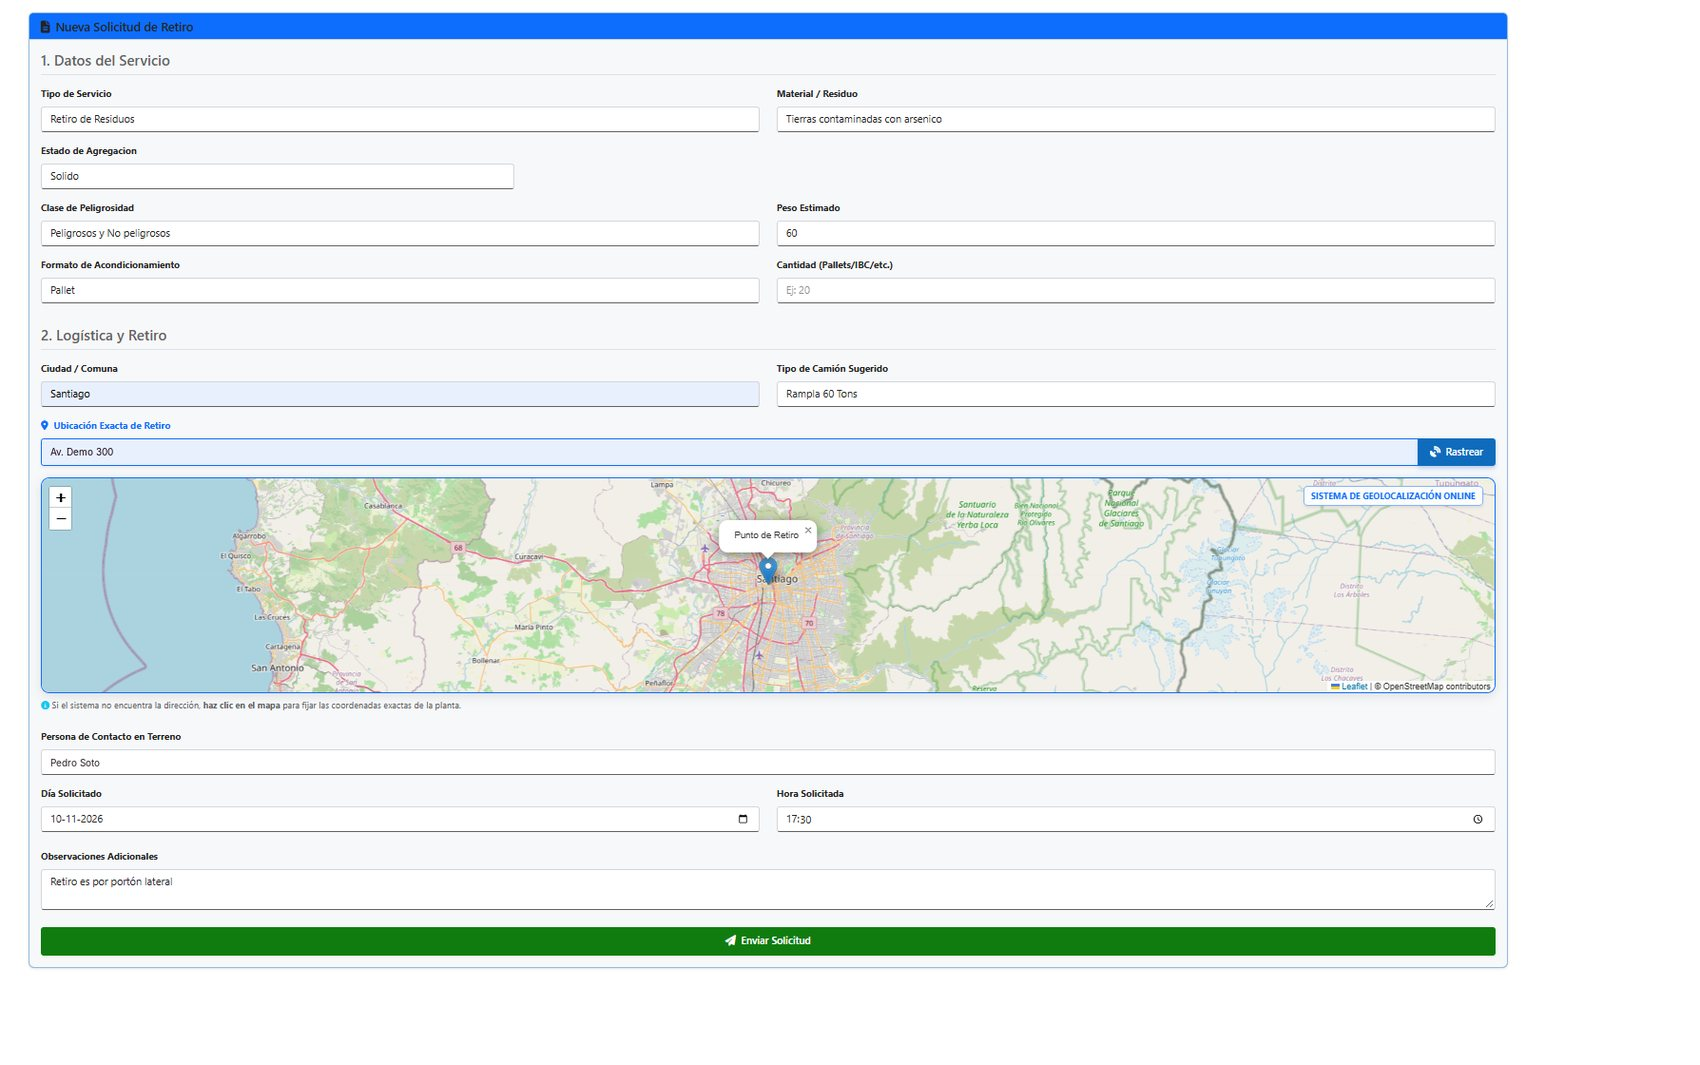
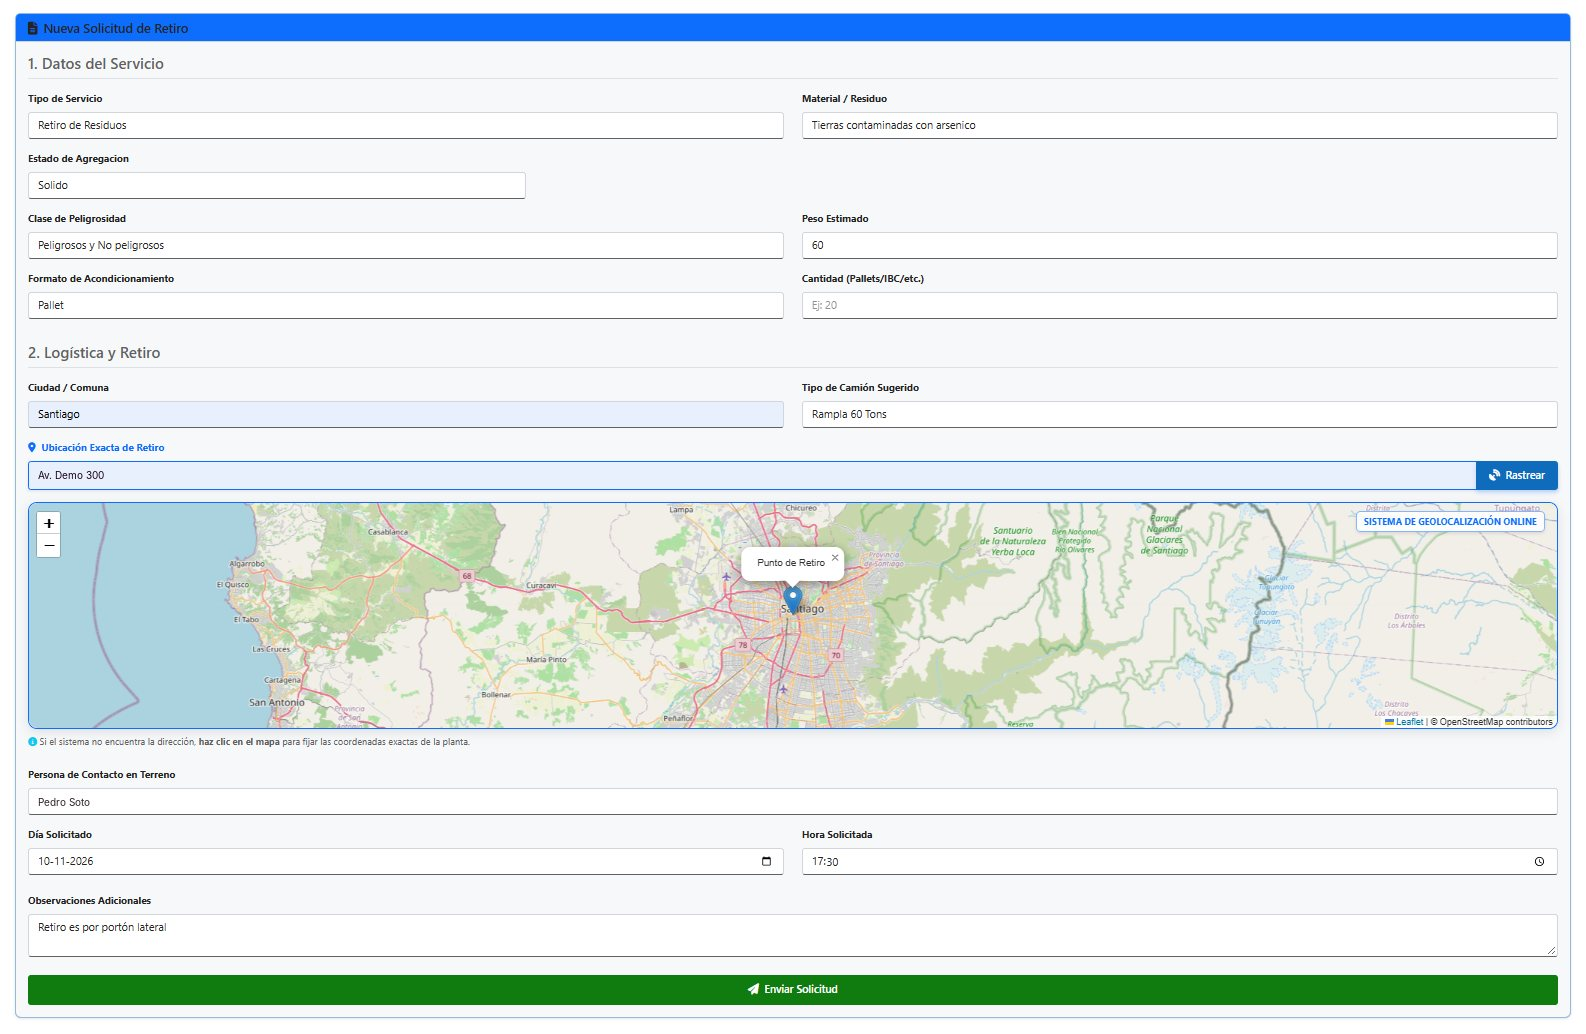
LogistFlex: vista principal de admin al inicio, capturas sin márgenes en blanco
Claude-Session: https://claude.ai/code/session_01YZcYgGdQB6rJwGpjLtgZwH

diff --git a/productos/logisdesk.html b/productos/logisdesk.html
@@ -195,15 +195,19 @@
         <p class="shot-note reveal">Pantallas reales del sistema con datos de demostración: los nombres de clientes, empresas y direcciones son ficticios.</p>
         <div class="shot-gallery">
           <figure class="shot reveal shot-free shot-wide">
-            <a href="../assets/img/capturas/lf-cliente-solicitud.jpg" target="_blank" rel="noopener"><img src="../assets/img/capturas/lf-cliente-solicitud.jpg" alt="LogistFlex: 1. El cliente solicita el retiro" loading="lazy" width="1700" height="1065"></a>
+            <a href="../assets/img/capturas/lf-dashboard.jpg" target="_blank" rel="noopener"><img src="../assets/img/capturas/lf-dashboard.jpg" alt="LogistFlex: Vista principal del administrador y coordinador" loading="lazy" width="1700" height="573"></a>
+            <figcaption><strong>Vista principal del administrador y coordinador</strong>Indicadores de usuarios, solicitudes, transportistas y conductores. Validación de costos spot sin referencia contractual para aprobar o rechazar, y acciones rápidas hacia la Control Tower y la auditoría.</figcaption>
+          </figure>
+          <figure class="shot reveal shot-free shot-wide">
+            <a href="../assets/img/capturas/lf-cliente-solicitud.jpg" target="_blank" rel="noopener"><img src="../assets/img/capturas/lf-cliente-solicitud.jpg" alt="LogistFlex: 1. El cliente solicita el retiro" loading="lazy" width="1586" height="1034"></a>
             <figcaption><strong>1. El cliente solicita el retiro</strong>Servicio, material, peligrosidad, formato, camión sugerido y ubicación exacta en el mapa.</figcaption>
           </figure>
           <figure class="shot reveal shot-free shot-wide">
-            <a href="../assets/img/capturas/lf-validacion.jpg" target="_blank" rel="noopener"><img src="../assets/img/capturas/lf-validacion.jpg" alt="LogistFlex: 2. Coordinación valida" loading="lazy" width="1700" height="250"></a>
+            <a href="../assets/img/capturas/lf-validacion.jpg" target="_blank" rel="noopener"><img src="../assets/img/capturas/lf-validacion.jpg" alt="LogistFlex: 2. Coordinación valida" loading="lazy" width="1700" height="225"></a>
             <figcaption><strong>2. Coordinación valida</strong>Aprobación o rechazo, con alerta de las solicitudes críticas con más de 48 horas.</figcaption>
           </figure>
           <figure class="shot reveal shot-free">
-            <a href="../assets/img/capturas/lf-aprobar.jpg" target="_blank" rel="noopener"><img src="../assets/img/capturas/lf-aprobar.jpg" alt="LogistFlex: Aprobación con nota de venta SAP" loading="lazy" width="382" height="473"></a>
+            <a href="../assets/img/capturas/lf-aprobar.jpg" target="_blank" rel="noopener"><img src="../assets/img/capturas/lf-aprobar.jpg" alt="LogistFlex: Aprobación con nota de venta SAP" loading="lazy" width="382" height="467"></a>
             <figcaption><strong>Aprobación con nota de venta SAP</strong>Se asocia la nota de venta y se verifica la dirección para navegar con GPS.</figcaption>
           </figure>
           <figure class="shot reveal shot-free">
@@ -211,11 +215,11 @@
             <figcaption><strong>3. Cotización y asignación</strong>Ruta GPS con kilómetros, tiempo estimado, peajes y costo según el contrato vigente.</figcaption>
           </figure>
           <figure class="shot reveal shot-free shot-wide">
-            <a href="../assets/img/capturas/lf-transp-responder.jpg" target="_blank" rel="noopener"><img src="../assets/img/capturas/lf-transp-responder.jpg" alt="LogistFlex: 4. El transportista responde" loading="lazy" width="1700" height="680"></a>
+            <a href="../assets/img/capturas/lf-transp-responder.jpg" target="_blank" rel="noopener"><img src="../assets/img/capturas/lf-transp-responder.jpg" alt="LogistFlex: 4. El transportista responde" loading="lazy" width="1700" height="593"></a>
             <figcaption><strong>4. El transportista responde</strong>Acepta asignando patente y chofer de su flota, propone otra fecha o rechaza el viaje.</figcaption>
           </figure>
           <figure class="shot reveal shot-free shot-wide">
-            <a href="../assets/img/capturas/lf-ya-asignados.jpg" target="_blank" rel="noopener"><img src="../assets/img/capturas/lf-ya-asignados.jpg" alt="LogistFlex: Viaje confirmado" loading="lazy" width="1700" height="145"></a>
+            <a href="../assets/img/capturas/lf-ya-asignados.jpg" target="_blank" rel="noopener"><img src="../assets/img/capturas/lf-ya-asignados.jpg" alt="LogistFlex: Viaje confirmado" loading="lazy" width="1700" height="148"></a>
             <figcaption><strong>Viaje confirmado</strong>Coordinación ve el viaje asignado y confirmado por el transportista, con patente y conductor.</figcaption>
           </figure>
           <figure class="shot reveal shot-free shot-wide">
@@ -223,11 +227,11 @@
             <figcaption><strong>5. Hoja de ruta digital del chofer</strong>Navegación con Maps o Waze, envío de la posición GPS, evidencia fotográfica a SharePoint y cierre del retiro.</figcaption>
           </figure>
           <figure class="shot reveal shot-free shot-wide">
-            <a href="../assets/img/capturas/lf-seguimiento.jpg" target="_blank" rel="noopener"><img src="../assets/img/capturas/lf-seguimiento.jpg" alt="LogistFlex: 6. Seguimiento en vivo para el cliente" loading="lazy" width="1700" height="365"></a>
+            <a href="../assets/img/capturas/lf-seguimiento.jpg" target="_blank" rel="noopener"><img src="../assets/img/capturas/lf-seguimiento.jpg" alt="LogistFlex: 6. Seguimiento en vivo para el cliente" loading="lazy" width="1700" height="363"></a>
             <figcaption><strong>6. Seguimiento en vivo para el cliente</strong>Camión, estado y llegada estimada con tráfico, sobre el mapa.</figcaption>
           </figure>
           <figure class="shot reveal shot-free shot-wide">
-            <a href="../assets/img/capturas/lf-cliente-panel.jpg" target="_blank" rel="noopener"><img src="../assets/img/capturas/lf-cliente-panel.jpg" alt="LogistFlex: Portal del cliente" loading="lazy" width="1700" height="545"></a>
+            <a href="../assets/img/capturas/lf-cliente-panel.jpg" target="_blank" rel="noopener"><img src="../assets/img/capturas/lf-cliente-panel.jpg" alt="LogistFlex: Portal del cliente" loading="lazy" width="1700" height="548"></a>
             <figcaption><strong>Portal del cliente</strong>Solicitudes, viajes activos e historial con su estado, y acceso a los certificados en CertiFlex.</figcaption>
           </figure>
           <figure class="shot reveal shot-free shot-wide">
@@ -235,20 +239,16 @@
             <figcaption><strong>Coordinación logística</strong>Sincronización con SAP, revisión de vencimientos, alertas y cupos de recepción en planta para los próximos 7 días.</figcaption>
           </figure>
           <figure class="shot reveal shot-free shot-wide">
-            <a href="../assets/img/capturas/lf-planificador.jpg" target="_blank" rel="noopener"><img src="../assets/img/capturas/lf-planificador.jpg" alt="LogistFlex: Planificador de capacidad" loading="lazy" width="1700" height="636"></a>
+            <a href="../assets/img/capturas/lf-planificador.jpg" target="_blank" rel="noopener"><img src="../assets/img/capturas/lf-planificador.jpg" alt="LogistFlex: Planificador de capacidad" loading="lazy" width="1700" height="637"></a>
             <figcaption><strong>Planificador de capacidad</strong>Máximo de notas de venta por día y respuestas del transportista para aprobar y notificar al cliente.</figcaption>
           </figure>
           <figure class="shot reveal shot-free shot-wide">
-            <a href="../assets/img/capturas/lf-control-tower.jpg" target="_blank" rel="noopener"><img src="../assets/img/capturas/lf-control-tower.jpg" alt="LogistFlex: 7. Control Tower en planta" loading="lazy" width="1700" height="705"></a>
+            <a href="../assets/img/capturas/lf-control-tower.jpg" target="_blank" rel="noopener"><img src="../assets/img/capturas/lf-control-tower.jpg" alt="LogistFlex: 7. Control Tower en planta" loading="lazy" width="1700" height="707"></a>
             <figcaption><strong>7. Control Tower en planta</strong>Mapa con geocerca de la planta y alertas de arribos cercanos.</figcaption>
           </figure>
           <figure class="shot reveal shot-free shot-wide">
             <a href="../assets/img/capturas/lf-romana.jpg" target="_blank" rel="noopener"><img src="../assets/img/capturas/lf-romana.jpg" alt="LogistFlex: Control de romana" loading="lazy" width="1700" height="669"></a>
             <figcaption><strong>Control de romana</strong>Pesaje de entrada y salida con peso neto descargado y estado en planta.</figcaption>
-          </figure>
-          <figure class="shot reveal shot-free shot-wide">
-            <a href="../assets/img/capturas/lf-dashboard.jpg" target="_blank" rel="noopener"><img src="../assets/img/capturas/lf-dashboard.jpg" alt="LogistFlex: Dashboard administrativo" loading="lazy" width="1700" height="561"></a>
-            <figcaption><strong>Dashboard administrativo</strong>Indicadores, validación de costos de transporte y acciones rápidas, incluida la Control Tower y la auditoría.</figcaption>
           </figure>
           <figure class="shot reveal shot-free shot-wide">
             <a href="../assets/img/capturas/lf-mi-flota.jpg" target="_blank" rel="noopener"><img src="../assets/img/capturas/lf-mi-flota.jpg" alt="LogistFlex: Mi Flota del transportista" loading="lazy" width="1700" height="652"></a>

diff --git a/assets/css/styles.css b/assets/css/styles.css
@@ -1616,25 +1616,28 @@ img {
 .shot-free img {
   aspect-ratio: auto;
   object-fit: contain;
-  max-height: 560px;
-  background: #f4f6f9;
+  max-height: none;
 }
 
 .shot-free:not(.shot-wide) a {
-  background: #f4f6f9;
   display: flex;
   justify-content: center;
+  align-items: flex-start;
+  padding: 18px 18px 0;
+  background: transparent;
 }
 
 .shot-free:not(.shot-wide) img {
   width: auto;
   max-width: 100%;
-  height: 460px;
+  height: 470px;
+  border-radius: 10px;
+  box-shadow: 0 10px 30px rgba(0, 0, 0, 0.35);
 }
 
 @media (max-width: 720px) {
   .shot-free:not(.shot-wide) img {
     height: auto;
-    max-height: 460px;
+    max-height: 520px;
   }
 }
